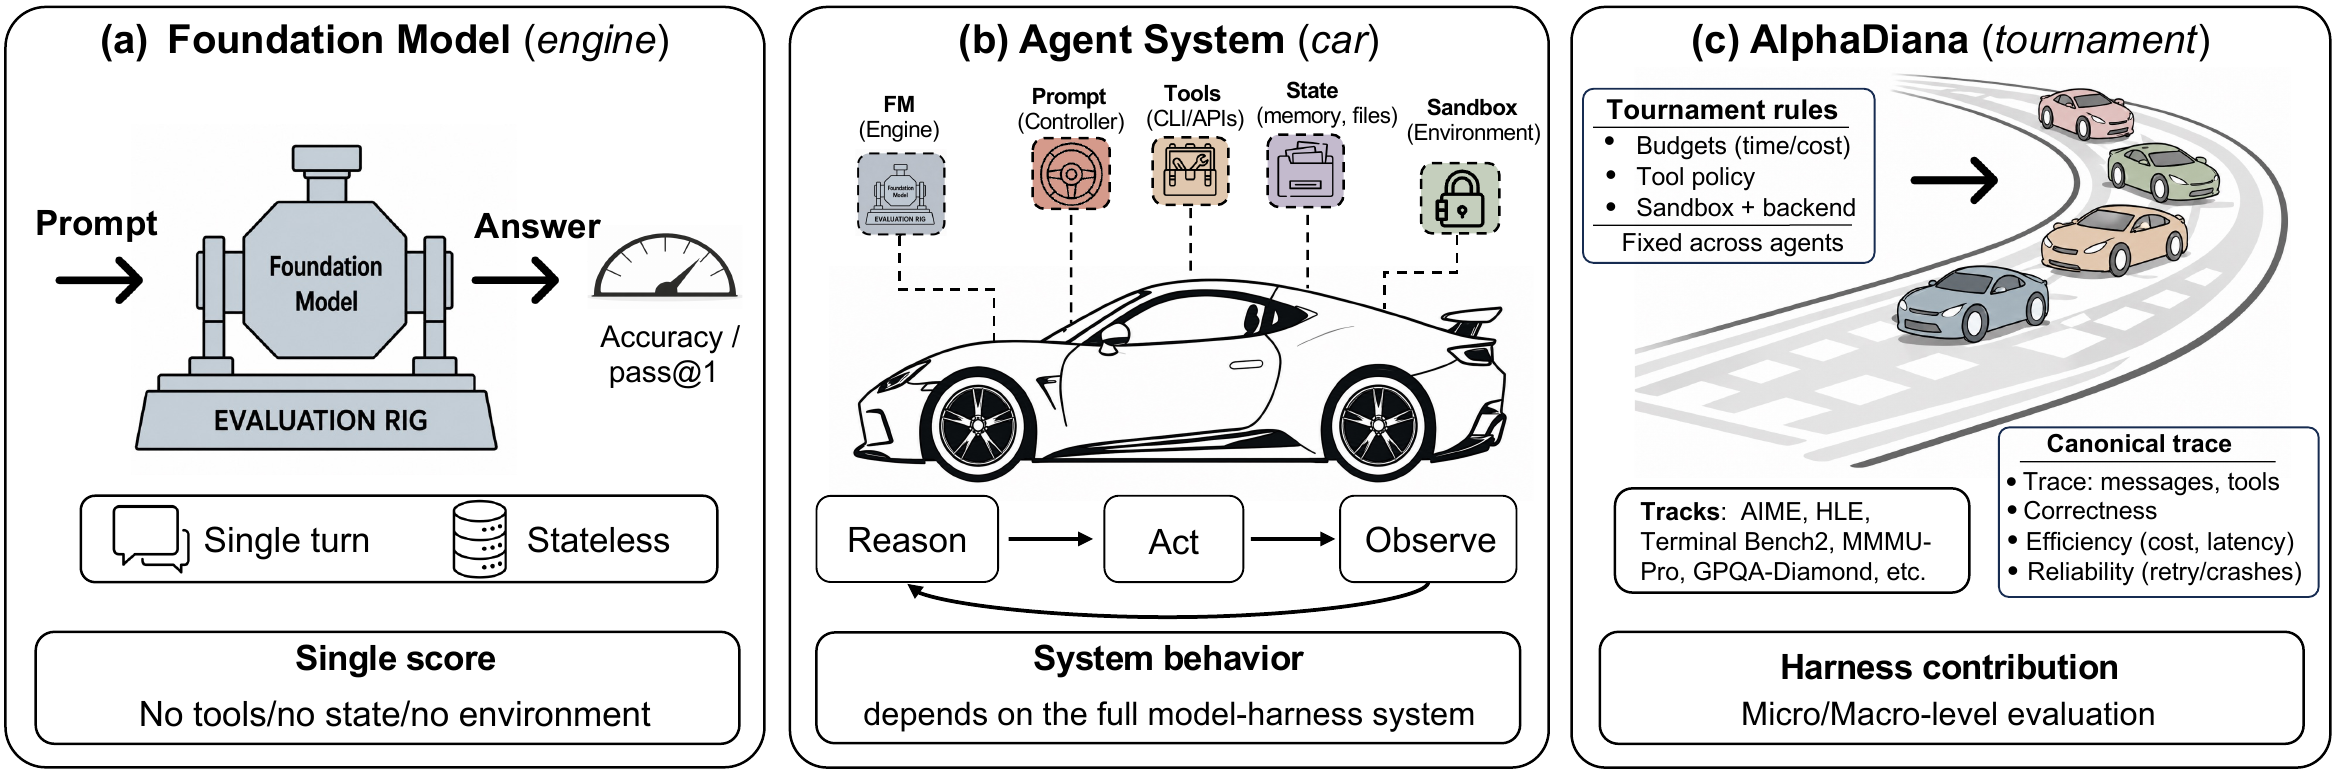
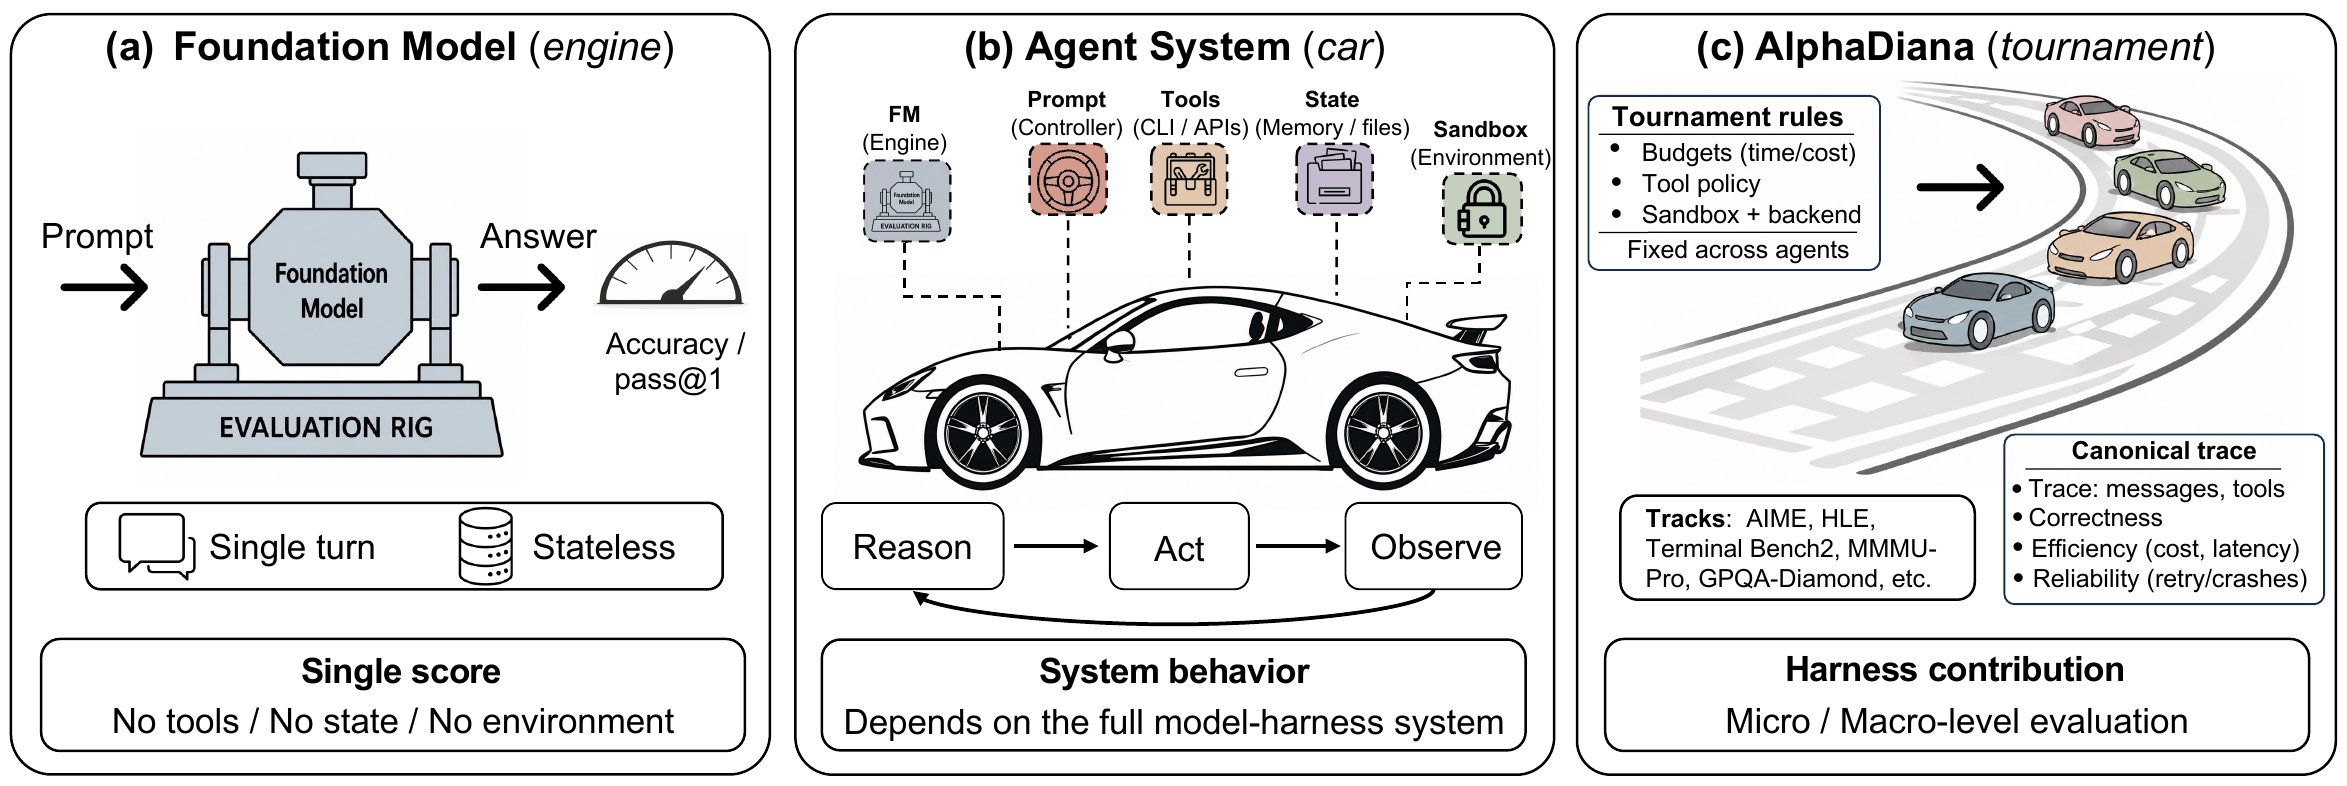
docs: use latest website overview figure

diff --git a/README.md b/README.md
@@ -3,7 +3,7 @@
 **AlphaDiana** is an open-source framework for **system-level evaluation of LLM-based reasoning agents**. It enables standardized, reproducible benchmarking of agentic systems—such as **[OpenClaw](https://github.com/openclaw/openclaw)**—on frontier reasoning tasks, with support for sandboxed code execution, multi-turn tool use, and full trajectory logging.
 
 <p align="center">
-  <img src="./assets/fig1.jpg" width="100%">
+  <img src="./docs/assets/motivation.png" width="100%">
 </p>
 <p align="center">
   <em><strong>Figure 1.</strong> Why agentic reasoning requires system-level evaluation: foundation models are evaluated like engines, agents behave like cars shaped by tools and state, and AlphaDiana serves as the tournament organizer that standardizes evaluation and records canonical traces.</em>
